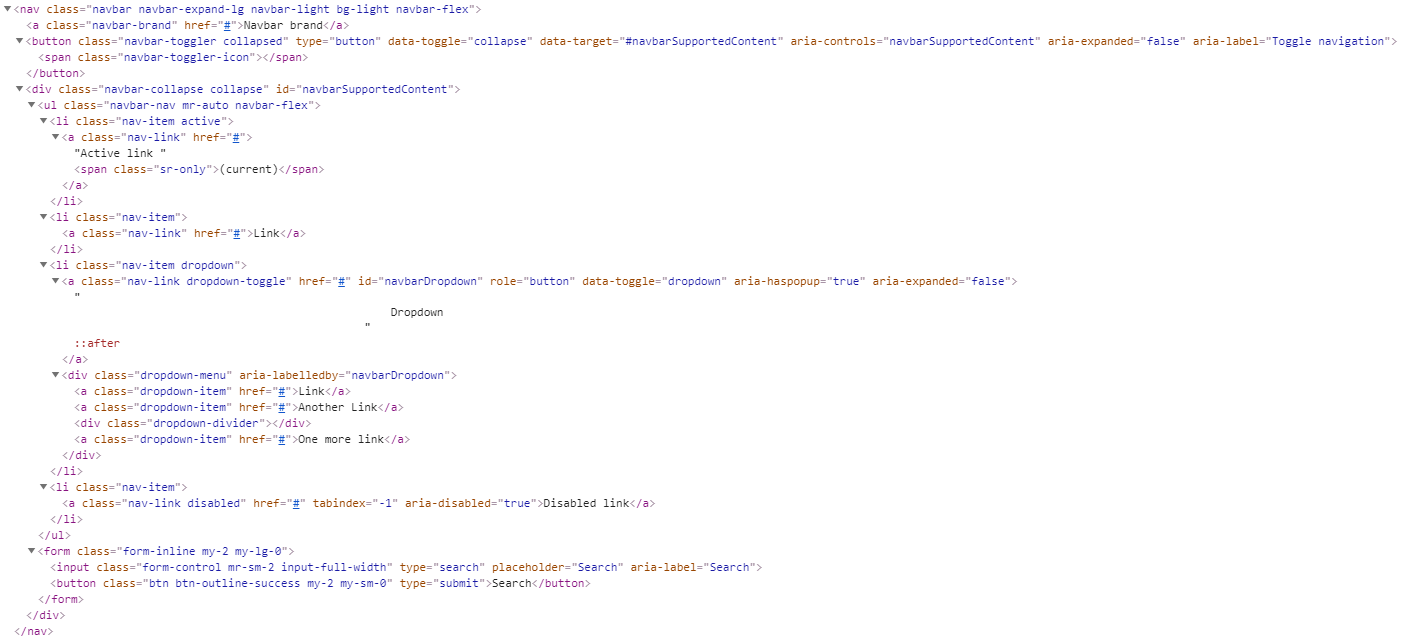
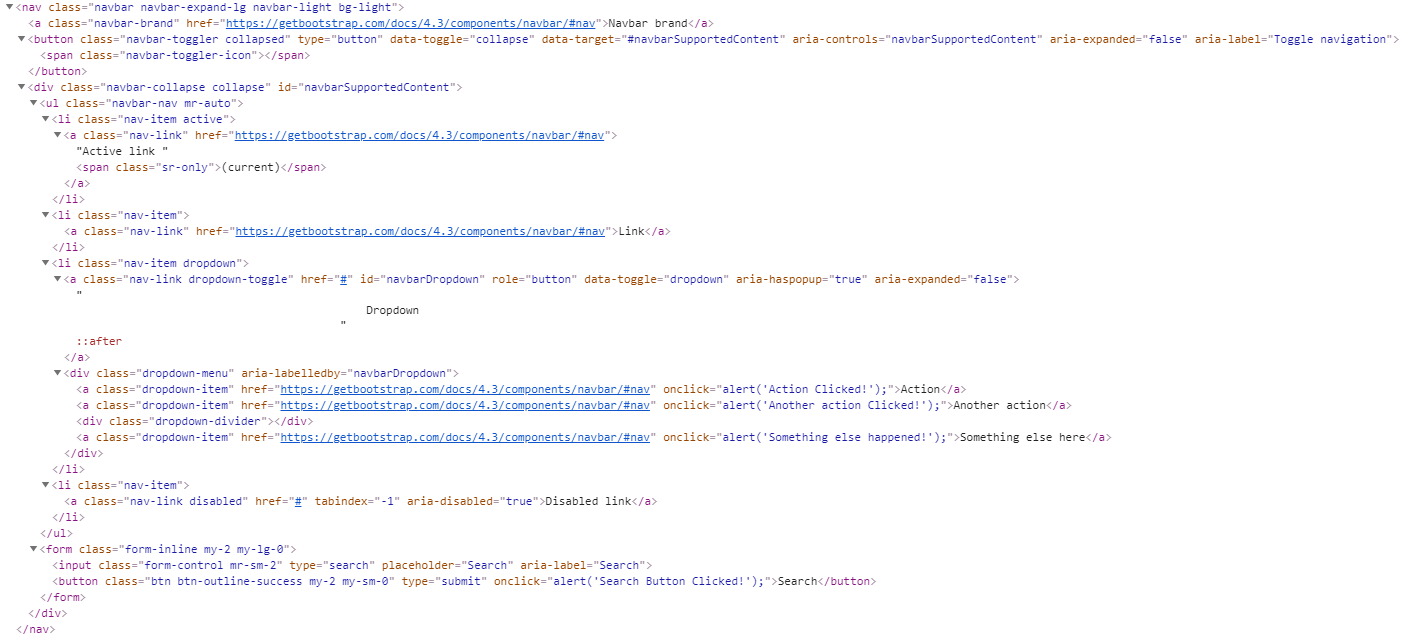
publish: Merge pull request #378 from jdi-docs/451-BootStrap-element-test-page-creation-Navbar---Brand
generated from commit 55c1b37e9b94c7635ca2a6a0f96fd8b6a91c06aa

diff --git a/index.html b/index.html
@@ -8610,21 +8610,15 @@ It is customary to reassign these lambdas before all the tests are run, for exam
 <br>
 1. Navbar with content <br>
 <img src="images/bootstrap/navbar-supported-content-normal.png" alt="Supported content" /><br>
+<img src="images/bootstrap/navbar-supported-content-normal-html.png" alt="Supported content" /><br>
 2. Collapsed navbar <br> 
 <img src="images/bootstrap/navbar-supported-content-collapsed.png" alt="Supported content" /><br>
+<img src="images/bootstrap/navbar-supported-content-collapsed-html.png" alt="Supported content" /><br>
 3. Uncollapsed navbar <br>
-<img src="images/bootstrap/navbar-supported-content-uncollapsed.png" alt="Supported content" /></p>
+<img src="images/bootstrap/navbar-supported-content-uncollapsed.png" alt="Supported content" />
+<img src="images/bootstrap/navbar-supported-content-uncollapsed-html.png" alt="Supported content" /></p>
 
 <p>Here is an examples with provided Bootstrap v4.3 code:</p>
-
-<ol>
-<li>Navbar with content<br>
-<img src="images/bootstrap/navbar-supported-content-normal-html.png" alt="Supported content" /><br></li>
-<li>Collapsed navbar <br> 
-<img src="images/bootstrap/navbar-supported-content-collapsed-html.png" alt="Supported content" /><br></li>
-<li>Uncollapsed navbar <br>
-<img src="images/bootstrap/navbar-supported-content-uncollapsed-html.png" alt="Supported content" /></li>
-</ol>
 
 <p>Available methods in Java JDI Light:</p>
 
@@ -8700,23 +8694,22 @@ It is customary to reassign these lambdas before all the tests are run, for exam
 
 <p>Navbar brand as a link <br>
 <img src="images/bootstrap/navbar-brand-link.png" alt="Brand" /><br>
+<br>
+<img src="images/bootstrap/navbar-brand-link-html.png" alt="Brand" /><br>
+<br>
 Navbar brand as heading <br> 
-<img src="images/bootstrap/navbar-brand-heading.png" alt="Brand" /><br></p>
+<img src="images/bootstrap/navbar-brand-heading.png" alt="Brand" /><br>
+<br>
+<img src="images/bootstrap/navbar-brand-heading-html.png" alt="Brand" /><br></p>
 
 <p>Adding images to the .navbar-brand will likely always require custom styles or utilities to properly size. Here are some examples to demonstrate.<br></p>
 
 <p><img src="images/bootstrap/navbar-brand-image.png" alt="Brand" /><br>
-<img src="images/bootstrap/navbar-brand-image-and-link.png" alt="Brand" /></p>
-
-<p>Here is an examples with provided Bootstrap v4.3 code:</p>
-
-<p>Navbar brand as a link <br>
-<img src="images/bootstrap/navbar-brand-link-html.png" alt="Brand" /><br>
-Navbar brand as heading <br> 
-<img src="images/bootstrap/navbar-brand-heading-html.png" alt="Brand" /><br>
-Navbar brand as image <br>
+<br>
 <img src="images/bootstrap/navbar-brand-image-html.png" alt="Brand" /><br>
-Navbar brand as image and link <br> 
+<br>
+<img src="images/bootstrap/navbar-brand-image-and-link.png" alt="Brand" /><br>
+<br>
 <img src="images/bootstrap/navbar-brand-image-and-link-html.png" alt="Brand" /></p>
 
 <p>Available methods in Java JDI Light:</p>
